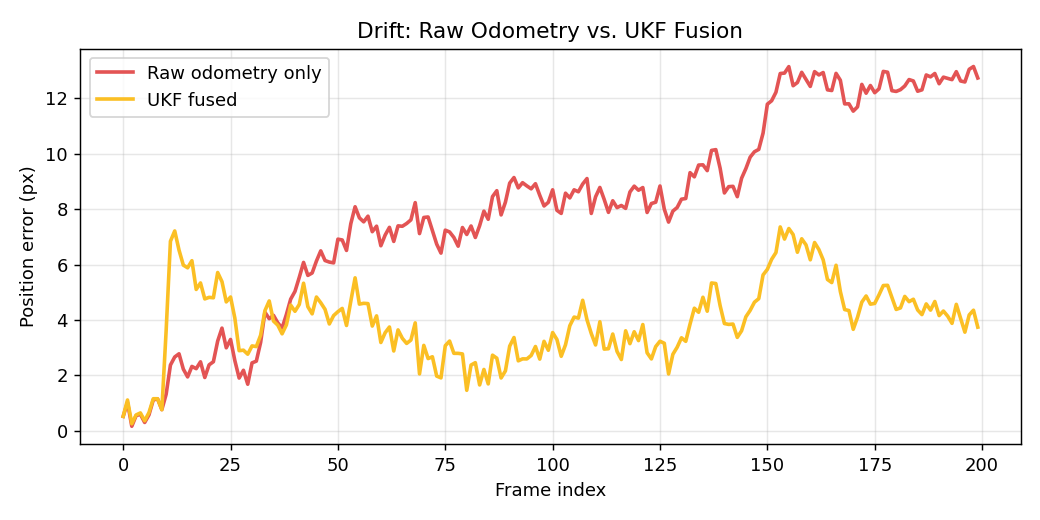
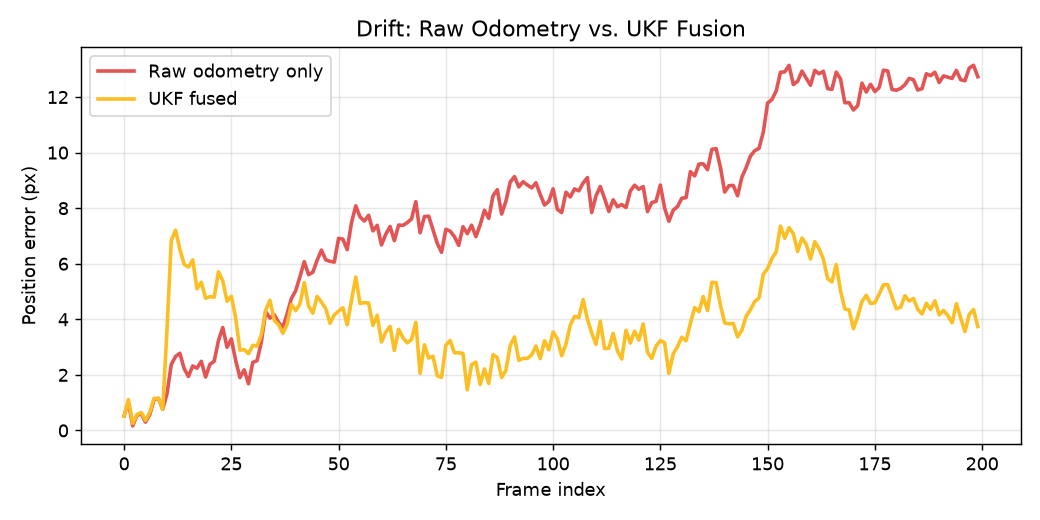
Phase 6: final polish - LICENSE, fixed missing matplotlib dep, project structure docs, repo metadata

diff --git a/README.md b/README.md
@@ -15,14 +15,14 @@ Inspired by [`ngps_flight`](https://github.com/snktshrma/ngps_flight) /
 GSoC 2024 and follow-on work). This is an independent, simulation-only
 reproduction for learning/portfolio purposes — not a fork of that codebase.
 
-## Status: Phase 5 of 6
+## Status: Complete (6 of 6)
 
 - [x] **Phase 1** — Synthetic world generator + frame simulator + ORB-based absolute localizer
 - [x] **Phase 2** — Optical flow odometry + drift-only baseline
 - [x] **Phase 3** — UKF fusion
 - [x] **Phase 4** — Dashboard (live simulation view)
 - [x] **Phase 5** — Parameter sandbox
-- [ ] Phase 6 — Deploy + docs
+- [x] **Phase 6** — Deploy + docs
 
 See [`PRD.md`](PRD.md) for the full design doc.
 
@@ -225,3 +225,27 @@ python -m visloc.export_dashboard_data  # generates docs/assets/* for the dashbo
 python -m visloc.export_sandbox_data    # generates docs/assets/sandbox_data.json
 pytest tests/ -v
 ```
+
+## Project structure
+
+```
+visloc/
+  world.py                  Synthetic aerial reference map generator
+  simulator.py               Flight path + camera-crop simulator
+  localizer.py                ORB/AKAZE absolute localizer
+  odometry.py                 Lucas-Kanade relative odometry
+  fusion.py                   UKF fusion engine (VIO + VPS)
+  evaluate_drift.py            Phase 2 baseline chart generator
+  evaluate_fusion.py            Phase 3 comparison chart generator
+  export_dashboard_data.py       Precomputes docs/assets/* for the dashboard
+  export_sandbox_data.py          Precomputes docs/assets/sandbox_data.json
+tests/                        pytest suite (28 tests across all modules)
+docs/                          Static site (GitHub Pages) - dashboard + sandbox
+  assets/sandbox.js              JS port of the UKF, validated against Python
+PRD.md                         Original design doc
+```
+
+## License
+
+MIT — see [`LICENSE`](LICENSE). Inspired by `ngps_flight`/`ap_nongps`
+(Sanket Sharma); this is an independent reproduction, not a fork.